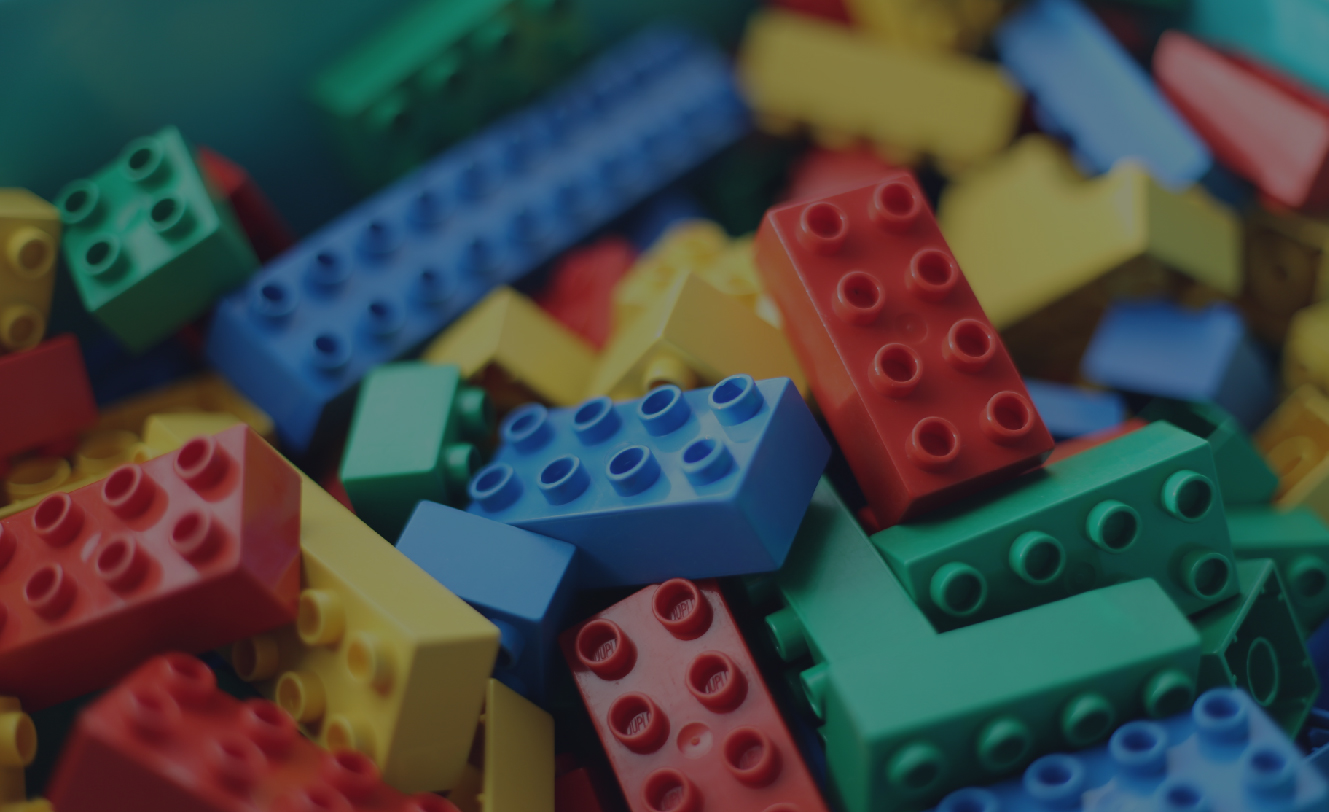
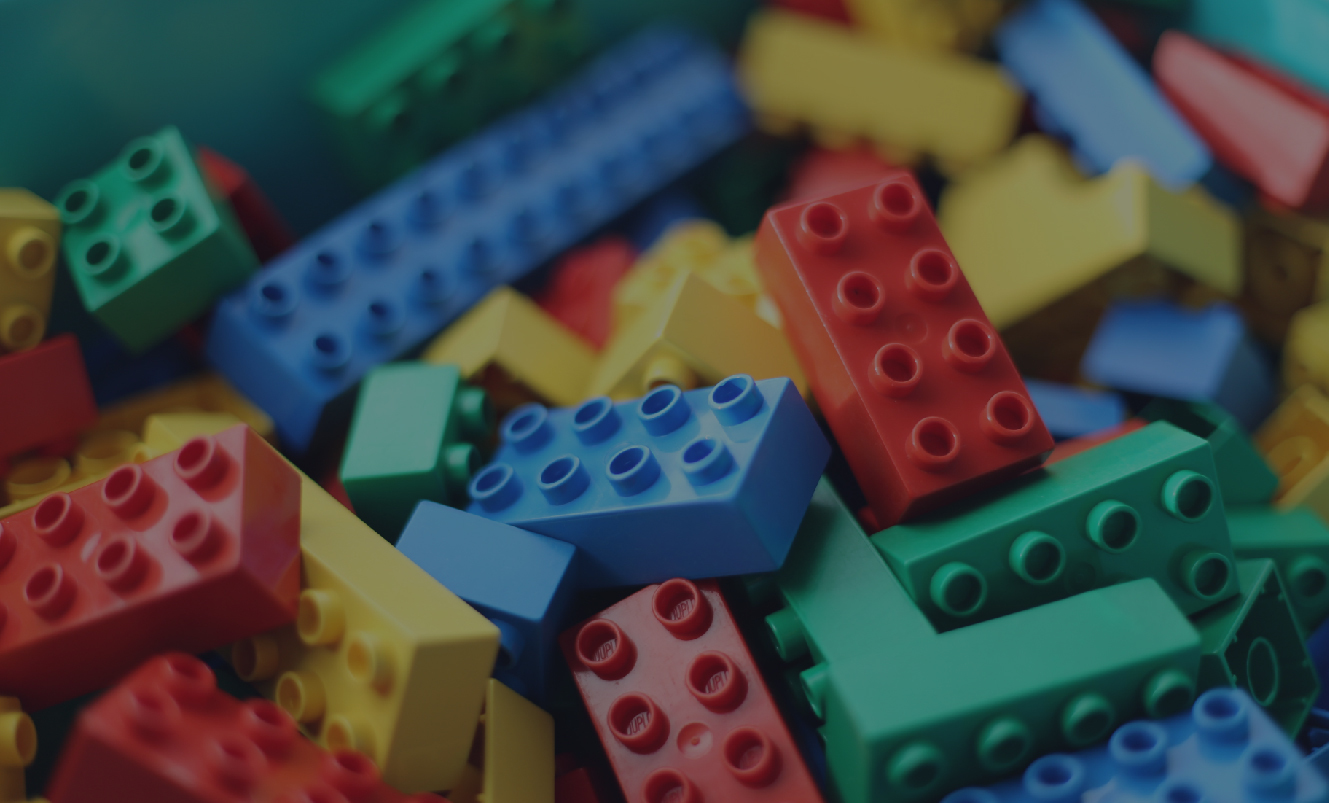
resize engineering images

diff --git a/content/engineering/toolkit.md b/content/engineering/toolkit.md
@@ -1,8 +1,8 @@
 ---
 title: Jetstack Toolkit
 weight: 1
-thumb: /img/png/engine.png
-image: /img/png/engine.png
+thumb: /img/jpg/engineering-toolkit.jpg
+image: /img/jpg/engineering-toolkit-image.jpg
 buttontitle: Production-grade Kubernetes for enterprise
 pagetitle: Jetstack Toolkit
 description: >

diff --git a/content/engineering/flocker.md b/content/engineering/flocker.md
@@ -2,7 +2,7 @@
 title: Flocker Volume Plugin
 weight: 4
 thumb: /img/jpg/engineering-flocker.jpg
-image: /img/jpg/flocker-background.jpg
+image: /img/jpg/engineering-flocker.jpg
 buttontitle: A volume plugin for Kubernetes
 pagetitle: Flocker Plugin
 description: >

diff --git a/content/engineering/marshal.md b/content/engineering/marshal.md
@@ -2,7 +2,7 @@
 title: Marshal
 weight: 2
 thumb: /img/jpg/engineering-marshal.jpg
-image: /img/jpg/marshal-background.jpg
+image: /img/jpg/engineering-marshal.jpg
 buttontitle: Kubernetes-native Database-as-a-Service
 pagetitle: Readying for Launch
 description:

diff --git a/content/engineering/kube-lego.md b/content/engineering/kube-lego.md
@@ -2,7 +2,7 @@
 title: Kube-Lego
 weight: 3
 thumb: /img/jpg/engineering-lego.jpg
-image: /img/jpg/lego-background.jpg
+image: /img/jpg/engineering-lego.jpg
 buttontitle: Automated Let's Encrypt certificates for Kubernetes
 pagetitle: Kube-lego
 description: >
